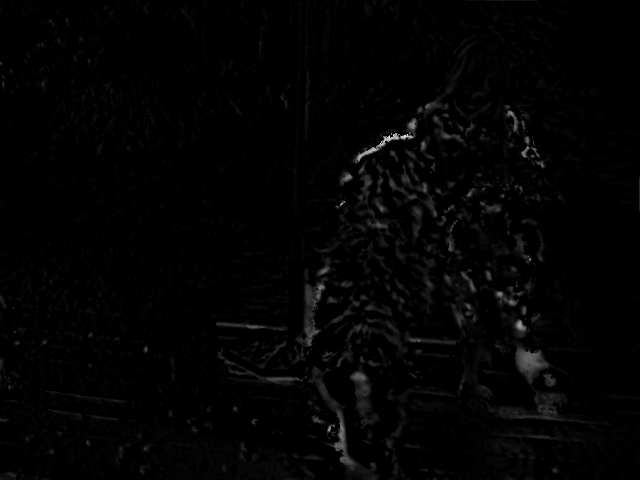
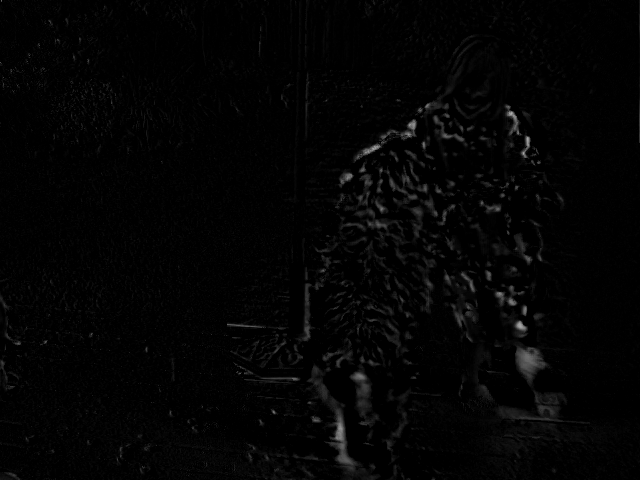
Increase the window size and re-run for DataSeq2

diff --git a/ps5_python/ps5.py b/ps5_python/ps5.py
@@ -201,13 +201,13 @@ def p4_b():
     cv.imwrite(os.path.join('output', 'ps5-4-b-4.png'), cv.subtract(i2, warped_i3))
 
 def p4_c():
-    i1 = cv.GaussianBlur(cv.imread(os.path.join('input', 'DataSeq2', '0.png'), cv.IMREAD_GRAYSCALE), (5, 5), 0)
-    i2 = cv.GaussianBlur(cv.imread(os.path.join('input', 'DataSeq2', '1.png'), cv.IMREAD_GRAYSCALE), (5, 5), 0)
-    i3 = cv.GaussianBlur(cv.imread(os.path.join('input', 'DataSeq2', '2.png'), cv.IMREAD_GRAYSCALE), (5, 5), 0)
+    i1 = cv.imread(os.path.join('input', 'DataSeq2', '0.png'), cv.IMREAD_GRAYSCALE)
+    i2 = cv.imread(os.path.join('input', 'DataSeq2', '1.png'), cv.IMREAD_GRAYSCALE)
+    i3 = cv.imread(os.path.join('input', 'DataSeq2', '2.png'), cv.IMREAD_GRAYSCALE)
 
-    u2,v2 = lk.hi_lk(i1, i2, 10)
+    u2,v2 = lk.hi_lk(i1, i2, 10, window_size=11)
     flow2 = lk.draw_flow_hsv(u2, v2)
-    u3,v3 = lk.hi_lk(i2, i3, 10)
+    u3,v3 = lk.hi_lk(i2, i3, 10, window_size=11)
     flow3 = lk.draw_flow_hsv(u3, v3)
     warped_i2 = lk.warp(i2, u2, v2)
     warped_i3 = lk.warp(i3, u3, v3)
